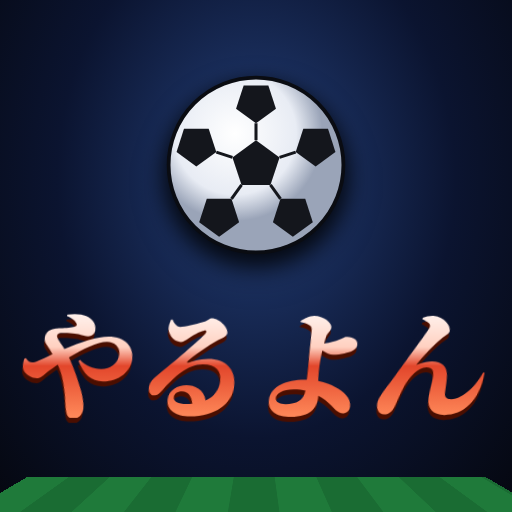
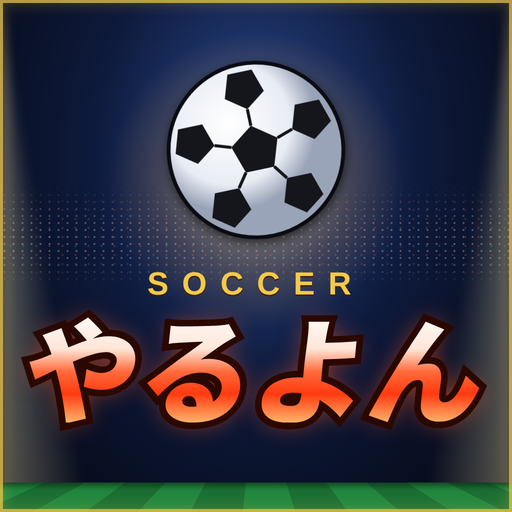
アプリアイコンを作り直し（ナイター風・金と赤のロゴ）
Claude-Session: https://claude.ai/code/session_014ncymyydjRttAJBZCdcEPd

diff --git a/index.html b/index.html
@@ -7,14 +7,14 @@
 <meta name="theme-color" content="#0B0B0C">
 <meta name="description" content="選手を育て、監督になり、ガチャで仲間を集めて、友達とルームコードで対戦するサッカーゲーム">
 <link rel="manifest" href="manifest.webmanifest">
-<link rel="icon" href="icons/icon-192.png">
-<link rel="apple-touch-icon" href="icons/icon-180.png">
+<link rel="icon" href="icons/icon-192-v2.png">
+<link rel="apple-touch-icon" href="icons/icon-180-v2.png">
 <meta name="apple-mobile-web-app-capable" content="yes">
 <meta name="mobile-web-app-capable" content="yes">
 <meta name="apple-mobile-web-app-status-bar-style" content="black-translucent">
 <meta name="apple-mobile-web-app-title" content="やるよん">
 <script src="firebase-config.js"></script>
-<script>window.KJNET_PENDING=new Promise(function(r){window.__kjResolve=r});window.APP_VER='20261117-101331';</script>
+<script>window.KJNET_PENDING=new Promise(function(r){window.__kjResolve=r});window.APP_VER='20261117-101714';</script>
 <script type="module" src="fb.js"></script>
 
 <link rel="preconnect" href="https://fonts.googleapis.com">

diff --git a/sw.js b/sw.js
@@ -1,8 +1,8 @@
 // サッカーやるよん：オフラインでも開けるようにするサービスワーカー
 // ゲームを更新したら CACHE の番号を1つ上げる（v1 → v2）
-const CACHE = 'yaruyon-v17';
+const CACHE = 'yaruyon-v18';
 const SHELL = ['./', './index.html', './fb.js', './firebase-config.js', './manifest.webmanifest',
-  './icons/icon-192.png', './icons/icon-512.png', './icons/icon-180.png'];
+  './icons/icon-192-v2.png', './icons/icon-512-v2.png', './icons/icon-180-v2.png'];
 
 self.addEventListener('install', (e) => {
   e.waitUntil(caches.open(CACHE).then((c) => c.addAll(SHELL)).then(() => self.skipWaiting()));
